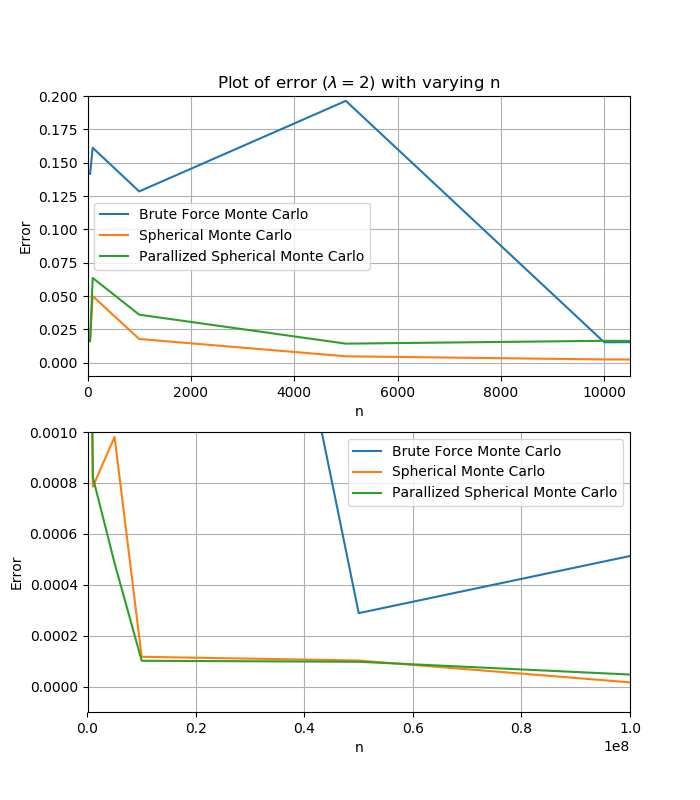
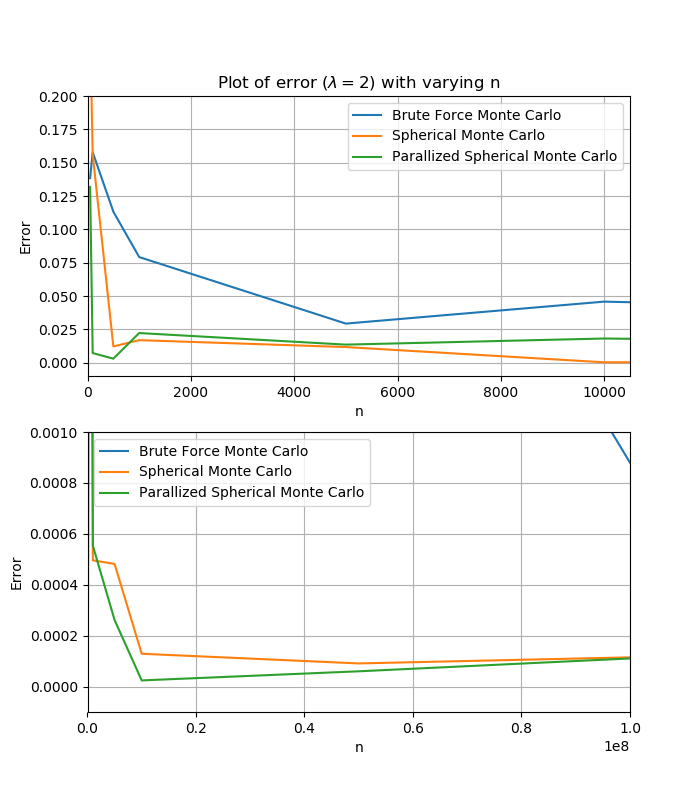
fant en liten, men betydelig feil i numerical-integration
ga at PSMC ga ofte større error enn SMC, noe det ikke burde være. har fortsatt at SMC er bedre enn PSMC, men ikke likte ofte

diff --git a/Project 3/program/numerical-integration.cpp b/Project 3/program/numerical-integration.cpp
@@ -371,7 +371,7 @@ int main(int argc, char *argv[]) {
     }
     else {
       // This is bad
-      local_n = n/numprocs-1;
+      local_n = (n-1)/numprocs;
     }
 
     time_start = MPI_Wtime();
@@ -385,6 +385,12 @@ int main(int argc, char *argv[]) {
     PSMC_std = PSMC_std/numprocs;
     time_span_PSMC = time_end-time_start;
     if ( my_rank == 0) {
+
+          fstream outfile;
+
+          outfile.open("montecarlo.txt", std::fstream::out | std::ofstream::app);
+          outfile << n << " , " << la << " , " << fabs(exact-BMC_sum) << " , " << fabs(exact-SMC_sum) << " , " << fabs(exact-PSMC_sum) << " , " << time_span_BMC.count() << " , "  << time_span_SMC.count() << " , "  << time_span_PSMC << endl;
+          outfile.close();
 
         // Final output
         cout << setiosflags(ios::showpoint | ios::uppercase);
@@ -435,11 +441,11 @@ int main(int argc, char *argv[]) {
     outfile.close();
 */
 
-
+/*
     outfile.open("montecarlo.txt", std::fstream::out | std::ofstream::app);
     outfile << n << " , " << la << " , " << fabs(exact-BMC_sum) << " , " << fabs(exact-SMC_sum) << " , " << fabs(exact-PSMC_sum) << " , " << time_span_BMC.count() << " , "  << time_span_SMC.count() << " , "  << time_span_PSMC << endl;
     outfile.close();
-
+*/
 
 
   return 0;
